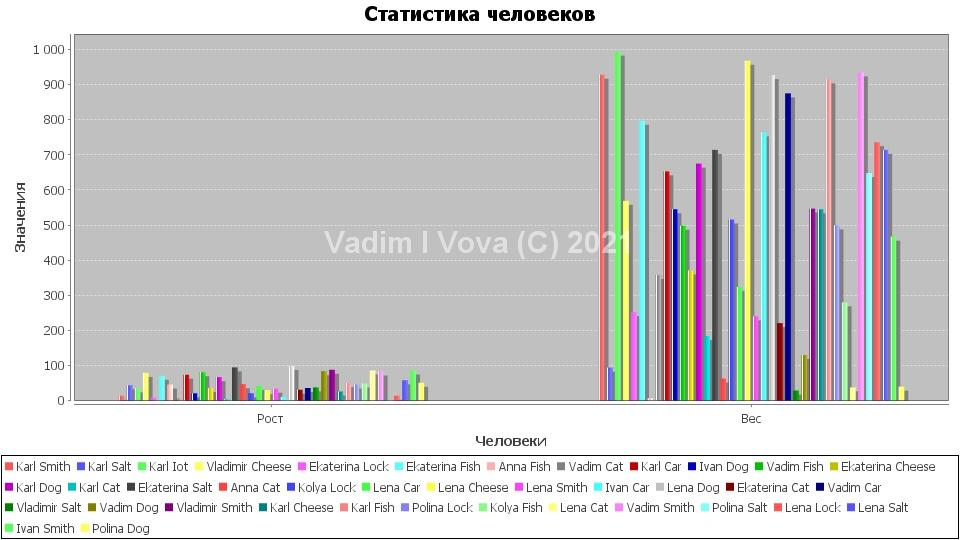
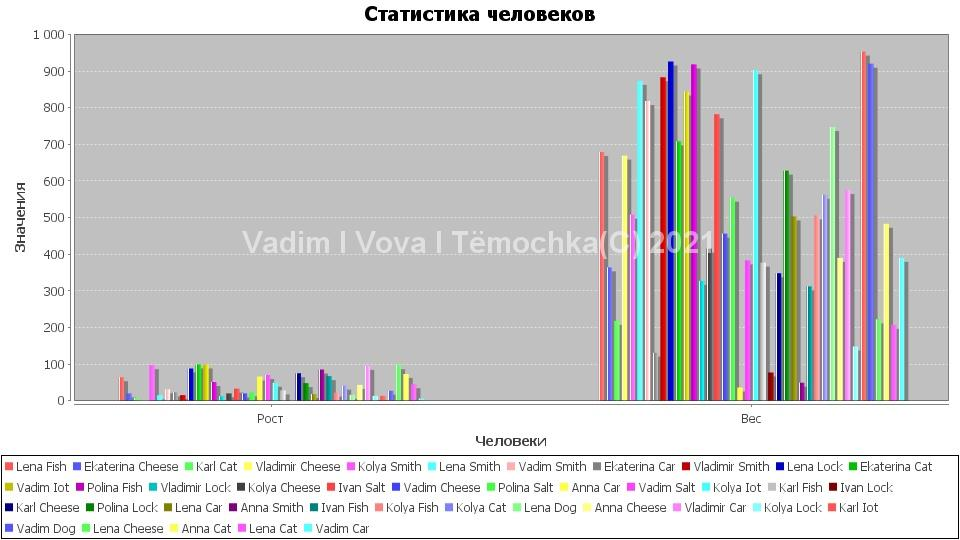
Good env

diff --git a/src/main/resources/templates/fix.html b/src/main/resources/templates/fix.html
@@ -8,8 +8,8 @@
     <img th:src="@{fixtures/pieChart.jpg}" style="width:100%" alt=""/>
     <img th:src="@{fixtures/lineChart.jpg}" style="width:100%" alt=""/>
     <img th:src="@{fixtures/histogram.jpg}" style="width:100%" alt=""/>
-    <img src="../static/images/histogram.jpg" style="width:100%" alt=""/>
-    <img th:src="@{images/286b6b30-af52-4a23-857a-071bc0951c3atortik.jpg}" style="width:100%"/>
+<!--    <img src="../static/images/histogram.jpg" style="width:100%" alt=""/>-->
+<!--    <img th:src="@{images/286b6b30-af52-4a23-857a-071bc0951c3atortik.jpg}" style="width:100%"/>-->
 
 </body>
 </html>

diff --git a/src/main/java/com/example/demo/ForRCSCH/Fixtures/FixtureController.java b/src/main/java/com/example/demo/ForRCSCH/Fixtures/FixtureController.java
@@ -5,7 +5,6 @@ import java.awt.geom.Rectangle2D;
 import java.awt.image.BufferedImage;
 import java.io.*;
 
-import nonapi.io.github.classgraph.utils.FileUtils;
 import org.jfree.chart.ChartUtilities;
 import org.jfree.chart.ChartFactory;
 import org.jfree.chart.JFreeChart;
@@ -14,21 +13,13 @@ import org.jfree.data.general.DefaultPieDataset;
 import org.jfree.chart.plot.PlotOrientation;
 
 
-import org.opencv.core.*;
-import org.opencv.imgcodecs.Imgcodecs;
-import org.opencv.imgproc.Imgproc;
 import org.springframework.stereotype.Controller;
 import org.springframework.web.bind.annotation.GetMapping;
-import org.springframework.web.bind.annotation.PathVariable;
 import org.springframework.web.bind.annotation.RequestMapping;
 
 import javax.imageio.ImageIO;
 import javax.swing.*;
-import java.nio.file.Files;
-import java.nio.file.Path;
 import java.util.List;
-import java.util.UUID;
-import java.util.stream.Stream;
 
 @Controller
 @RequestMapping("/fix")
@@ -37,7 +28,7 @@ public class FixtureController {
     String dirPath = System.getProperty("user.dir").replace('\\', '/') + "/src/main/resources/static/";
 //    String dirPath = System.getProperty("user.dir").replace('\\', '/') + "static/";
 
-    public List<FixturePerson> list;
+    private List<FixturePerson> list;
 
     @GetMapping("/createGraph")
     public void createGraph(){
@@ -53,15 +44,16 @@ public class FixtureController {
                 true,
                 true,
                 false);
-        int width =3840/2/2;
-        int height = 2160/2/2;
+        int width =3840/1;
+        int height = 2160/1;
+        System.out.println();
+
 
         // Сохранение картинки графика
         File pieFile = new File(dirPath+"fixtures/pieChart.jpg");
 
         //ГРАФИК ЛИНЕЙНЫЙ
         DefaultCategoryDataset lineChart = new DefaultCategoryDataset();
-        Stream stream = list.stream();
         list.forEach(fixturePerson -> lineChart.addValue(fixturePerson.getAge(), "age", fixturePerson.getName()+" "+fixturePerson.getSurname()));
 
         JFreeChart lineObject = ChartFactory.createLineChart(
@@ -95,8 +87,12 @@ public class FixtureController {
         File barFile = new File(dirPath + "fixtures/histogram.jpg");
 
         try {
-            ChartUtilities.saveChartAsJPEG(pieFile, pieObject, width, height);
             ChartUtilities.saveChartAsJPEG(lineFile, lineObject, width, height);
+
+            width =3840/4;
+            height = 2160/4;
+
+            ChartUtilities.saveChartAsJPEG(pieFile, pieObject, width, height);
             ChartUtilities.saveChartAsJPEG(barFile, barObject, width, height);
         } catch (IOException e) {
             e.printStackTrace();
@@ -124,7 +120,7 @@ public class FixtureController {
                         RenderingHints.VALUE_TEXT_ANTIALIAS_ON);
 
                 g2d.setFont(new Font("Arial", Font.BOLD, 30));
-                String copyright = "Vadim I Vova (C) 2021";
+                String copyright = "Vadim I Vova I Tёmochka(C) 2021";
 
                 FontMetrics fontMetrics = g2d.getFontMetrics();
                 Rectangle2D rect = fontMetrics.getStringBounds(copyright, g2d);
@@ -144,4 +140,7 @@ public class FixtureController {
         }
     }
 
+    public void setList(List<FixturePerson> list) {
+        this.list = list;
+    }
 }

diff --git a/src/main/java/com/example/demo/PastryShopApplication.java b/src/main/java/com/example/demo/PastryShopApplication.java
@@ -1,5 +1,6 @@
  package com.example.demo;
 
+import org.springframework.beans.factory.annotation.Value;
 import org.springframework.boot.SpringApplication;
 import org.springframework.boot.autoconfigure.SpringBootApplication;
 import org.springframework.context.annotation.Bean;
@@ -11,13 +12,16 @@ import org.springframework.scheduling.annotation.EnableScheduling;
 @SpringBootApplication
 public class PastryShopApplication {
 
+    @Value("${spring.redis.address}")
+    private String address;
+
     public static void main(String[] args) {
         SpringApplication.run(PastryShopApplication.class, args);
     }
 
     @Bean
     public RedisConnectionFactory factory(){
-        return new LettuceConnectionFactory("localhost", 6379);
+        return new LettuceConnectionFactory(address, 6379);
     }
 
 }

diff --git a/src/test/java/com/example/demo/FixtureTests.java b/src/test/java/com/example/demo/FixtureTests.java
@@ -48,7 +48,7 @@ public class FixtureTests{
     public void mainTest(){
         FixtureController fixtureController = new FixtureController();
         System.out.println(list.size());
-        fixtureController.list = this.list;
+        fixtureController.setList(list);
         fixtureController.createGraph();
     }
 
